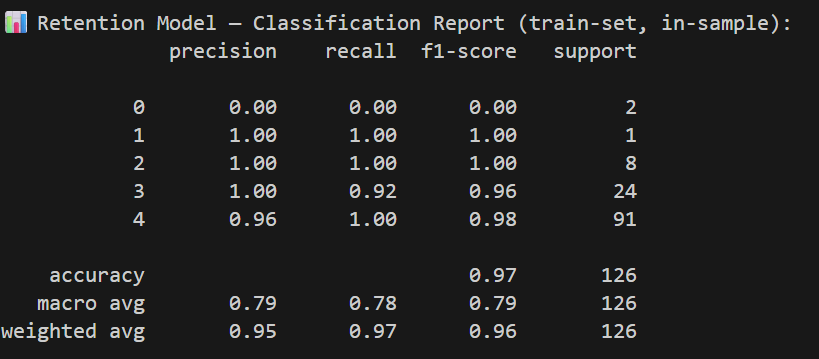
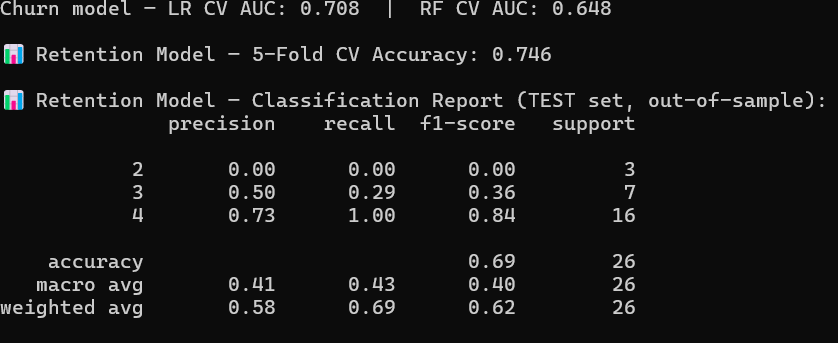
chart_update

diff --git a/templates/result.html b/templates/result.html
@@ -203,8 +203,9 @@
         <div class="chart-caption">
           <h4>RF SHAP: Top 10 Retention Features</h4>
           <p>The 10 most important features for predicting retention. 
-          <strong>Event participation</strong> consistently ranks as the strongest signal, 
-          followed by login frequency and task completion.</p>
+          <strong>Nod-Krai Storyline Rating</strong> and <strong>Interest in Upcoming Characters</strong> 
+          rank near-equally at the top, with Nod-Krai New Characters Rating entering at #3 — 
+          confirming that content satisfaction with the latest region is a dominant retention signal.</p>
         </div>
       </div>
       <div class="chart-card">
@@ -212,9 +213,10 @@
              alt="RF SHAP top 15 retention features">
         <div class="chart-caption">
           <h4>RF SHAP: Top 15 Retention Features</h4>
-          <p>Extended view showing the top 15 features. Motivational factors 
-          (character design enjoyment, social play patterns) appear alongside 
-          behavioural engagement metrics, confirming a multi-dimensional retention structure.</p>
+          <p>Extended view of the top 15 features. <strong>Nod-Krai Storyline Rating</strong> now leads, 
+          with <strong>Age</strong> appearing as a new entry — suggesting younger or newer players 
+          have a distinct retention risk profile. "WatchMotivation: To check story updates" also enters 
+          the list, reinforcing how story-following behaviour connects to long-term intent.</p>
         </div>
       </div>
     </div>
@@ -225,9 +227,11 @@
              alt="RF SHAP signed values for retention">
         <div class="chart-caption">
           <h4>RF SHAP: Directional Attribution (Retention)</h4>
-          <p>Signed SHAP values showing feature direction. High event participation 
-          <em>increases</em> retention probability; low quest completion 
-          <em>decreases</em> it. This directional insight is critical for targeted interventions.</p>
+          <p>Signed SHAP values showing feature direction. Notably, almost all top features 
+          appear in <em>red</em> (decreasing retention probability), meaning high values in those 
+          features paradoxically push the model toward lower retention classes — driven by 
+          the ordinal target structure. Only <strong>Motivated: Collecting Characters</strong> and 
+          <strong>Quest Completion Rate</strong> show a positive (teal) direction for retention.</p>
         </div>
       </div>
       <div class="chart-card">
@@ -235,9 +239,11 @@
              alt="SHAP beeswarm plot for retention">
         <div class="chart-caption">
           <h4>SHAP Beeswarm: Retention ⭐</h4>
-          <p>The beeswarm plot reveals the full distribution of individual SHAP values. 
-          A clear separation emerges: players with high event participation and login frequency 
-          cluster at positive SHAP values, while low-engagement players cluster negatively. 
+          <p>The beeswarm plot reveals the full distribution of individual SHAP values across 
+          all 126 active players. New features appear compared to earlier views — 
+          <strong>Nod-Krai New Characters Rating</strong>, <strong>WatchMotivation: To check story updates</strong>, 
+          and <strong>Age</strong> all show meaningful spread. Players with high interest in upcoming characters 
+          and strong Nod-Krai story ratings cluster at positive (rightward) SHAP values. 
           <strong>This is the study's most informative single chart.</strong></p>
         </div>
       </div>
@@ -327,26 +333,31 @@
       <img src="{{ url_for('static', filename='images/shap/Chart_03_Model_AUC.png') }}" 
            alt="Model AUC ROC comparison">
       <div class="chart-caption">
-        <h4>Model AUC Comparison (LR vs RF)</h4>
-        <p>LR AUC = 0.708 vs RF AUC = 0.648 on the churn prediction task. 
-        LR outperforming RF is consistent with RF's known underperformance 
-        in low-dimensional feature spaces (only 5 demographic features available).</p>
+        <h4>Model Performance Summary (Churn AUC + Retention CV Accuracy)</h4>
+        <p>Three metrics displayed: Churn model LR AUC = 0.708 and RF AUC = 0.648 (binary churn task), 
+        plus the Retention Model RF 5-Fold CV Accuracy = 0.746 (multi-class). 
+        LR outperforming RF on the churn task is consistent with RF's known underperformance 
+        in low-dimensional feature spaces (only 5 demographic features). 
+        Note these metrics are not directly comparable — AUC is binary, CV Accuracy is multi-class.</p>
       </div>
     </div>
 
     <div class="chart-full">
       <img src="{{ url_for('static', filename='images/shap/Accuracy.png') }}" 
-           alt="Retention model classification report">
+           alt="Retention model classification report - test set">
       <div class="chart-caption">
-        <h4>Retention Model — Classification Report</h4>
-        <p>Overall accuracy = 0.97 (weighted F1 = 0.96). However, macro F1 = 0.79 and 
-        <strong>Class 0 (highest churn risk) F1 = 0.00</strong> — the model completely 
-        failed to identify the 2 most at-risk players due to extreme class imbalance.</p>
+        <h4>Retention Model — Classification Report (TEST Set, Out-of-Sample)</h4>
+        <p>Test-set accuracy = 0.69 on the 20% hold-out (n=26). Only classes 2, 3, and 4 appear 
+        in the test split due to small class sizes for 0 and 1. 
+        <strong>Class 2 F1 = 0.00</strong> — the model still cannot identify the higher-risk 
+        retention classes due to severe class imbalance. Class 4 (intends to continue) achieves F1 = 0.84. 
+        The 5-Fold CV accuracy of 0.746 provides a more reliable generalisation estimate than 
+        the single train/test split.</p>
       </div>
     </div>
 
     <div class="section-label" style="margin-top:36px;">Detailed Metrics</div>
-    <h3 style="font-family:'Montserrat',sans-serif; color:#FFD6E0; font-size:1.2rem; margin-bottom:16px;">Retention Model (5-Class)</h3>
+    <h3 style="font-family:'Montserrat',sans-serif; color:#FFD6E0; font-size:1.2rem; margin-bottom:16px;">Retention Model — TEST Set (20% hold-out, n=26)</h3>
 
     <table class="metric-table">
       <thead>
@@ -360,34 +371,33 @@
         </tr>
       </thead>
       <tbody>
-        <tr><td>Class 0</td><td>Highest churn risk</td><td class="bad">0.00</td><td class="bad">0.00</td><td class="bad">0.00</td><td>2</td></tr>
-        <tr><td>Class 1</td><td>High risk</td><td class="good">1.00</td><td class="good">1.00</td><td class="good">1.00</td><td>1</td></tr>
-        <tr><td>Class 2</td><td>Moderate risk</td><td class="good">1.00</td><td class="good">1.00</td><td class="good">1.00</td><td>8</td></tr>
-        <tr><td>Class 3</td><td>Low risk</td><td class="good">1.00</td><td class="warn">0.92</td><td class="good">0.96</td><td>24</td></tr>
-        <tr><td>Class 4</td><td>Intends to continue</td><td class="warn">0.96</td><td class="good">1.00</td><td class="good">0.98</td><td>91</td></tr>
+        <tr><td>Class 2</td><td>Moderate risk</td><td class="bad">0.00</td><td class="bad">0.00</td><td class="bad">0.00</td><td>3</td></tr>
+        <tr><td>Class 3</td><td>Low risk</td><td class="warn">0.50</td><td class="warn">0.29</td><td class="warn">0.36</td><td>7</td></tr>
+        <tr><td>Class 4</td><td>Intends to continue</td><td class="warn">0.73</td><td class="good">1.00</td><td class="good">0.84</td><td>16</td></tr>
         <tr style="border-top:2px solid rgba(255,255,255,0.2);">
           <td colspan="2"><strong>Accuracy</strong></td>
-          <td colspan="3" class="good"><strong>0.97</strong></td><td>126</td>
+          <td colspan="3" class="warn"><strong>0.69</strong></td><td>26</td>
         </tr>
         <tr>
           <td colspan="2">Macro Average</td>
-          <td>0.79</td><td>0.78</td><td class="warn">0.79</td><td>126</td>
+          <td class="bad">0.41</td><td class="bad">0.43</td><td class="bad">0.40</td><td>26</td>
         </tr>
         <tr>
           <td colspan="2">Weighted Average</td>
-          <td class="good">0.95</td><td class="good">0.97</td><td class="good">0.96</td><td>126</td>
+          <td class="warn">0.58</td><td class="warn">0.69</td><td class="warn">0.62</td><td>26</td>
         </tr>
       </tbody>
     </table>
 
     <div class="highlight-box">
       <p>
-        <strong>⚠ Interpretation Warning:</strong> The 0.97 accuracy is misleading — 72% of samples are 
-        Class 4 (intending to continue), so a model biased toward the majority class scores high automatically. 
-        The <strong>macro-average F1 of 0.79</strong> is the true multi-class performance measure. 
-        Most critically, <strong>Class 0 F1 = 0.00</strong>: the model completely fails to identify 
-        the players most urgently needing intervention (n=2, too few for reliable classification). 
-        This is a direct consequence of the severe class imbalance inherent to the survey dataset.
+        <strong>⚠ Interpretation Warning:</strong> The test-set accuracy of 0.69 reflects genuine out-of-sample 
+        generalisation (20% hold-out, n=26) — a more honest picture than the previous in-sample report. 
+        <strong>Class 2 F1 = 0.00</strong>: the model still fails to identify moderate-risk players due to 
+        extreme class imbalance (only 3 samples in test). The <strong>5-Fold CV accuracy of 0.746</strong> 
+        is the most reliable performance estimate, averaging across the full dataset. 
+        The weighted F1 of 0.62 highlights that minority classes remain the key limitation — 
+        a direct consequence of the small survey sample size.
       </p>
     </div>
   </div>

diff --git a/templates/customer_profile.html b/templates/customer_profile.html
@@ -293,19 +293,28 @@
         <div class="dash-text">
           <h3>Dashboard 4 — Who Left? (Churn Demographics)</h3>
           <p>
-            Churned players show a notably different demographic fingerprint from active players.
-            Mobile dominates as the platform of departure — suggesting mobile-specific UX friction 
-            (battery drain, controls, performance) may compound content-driven churn.
-            The churn population is segmented into three archetypes: 
-            <strong style="color:#FFD6E0;">Watching &amp; Waiting (~36%)</strong>, 
-            <strong style="color:#96BAFF;">Passively Churned (~41%)</strong>, and 
-            <strong style="color:#FF9999;">Permanently Lost (~23%)</strong>.
+            Churned players are segmented into three behavioural archetypes based on their 
+            post-churn stance: <strong style="color:#FFD6E0;">Watching &amp; Waiting (~36%)</strong> — 
+            still following game news but not playing; 
+            <strong style="color:#96BAFF;">Passively Churned (~41%)</strong> — drifted away without 
+            a strong reason, most likely to return with the right incentive; and 
+            <strong style="color:#FF9999;">Permanently Lost (~23%)</strong> — actively disengaged 
+            with no intent to return.
+            <br><br>
+            Demographically, the highest churn concentration falls on 
+            <strong>players aged 18–24 who have played for fewer than 5 years</strong> — 
+            suggesting this cohort hits engagement fatigue before building the deep investment 
+            that keeps longer-tenured players retained.
+            Among those who moved on entirely, <strong>Wuthering Waves (Kuro Games) 
+            is the most cited destination</strong>, positioning it as the primary 
+            competitor absorbing Genshin's churned audience.
           </p>
           <div class="findings-pills">
-            <div class="finding-pill">📱 <strong>Mobile</strong> — Most common platform churned from</div>
-            <div class="finding-pill">36% — Still watching previews (Watching &amp; Waiting)</div>
-            <div class="finding-pill">23% — Will never return (Permanently Lost)</div>
-            <div class="finding-pill">50% — Still have friends playing</div>
+            <div class="finding-pill">👀 <strong>36%</strong> — Watching &amp; Waiting (still following)</div>
+            <div class="finding-pill">😶 <strong>41%</strong> — Passively Churned (drifted away)</div>
+            <div class="finding-pill">❌ <strong>23%</strong> — Permanently Lost (won't return)</div>
+            <div class="finding-pill">📉 <strong>18–24, &lt;5 yrs played</strong> — Highest churn group</div>
+            <div class="finding-pill">🌊 <strong>Wuthering Waves</strong> — #1 destination after leaving</div>
           </div>
         </div>
         <div class="kn-row">
